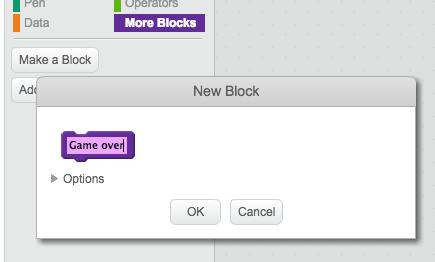
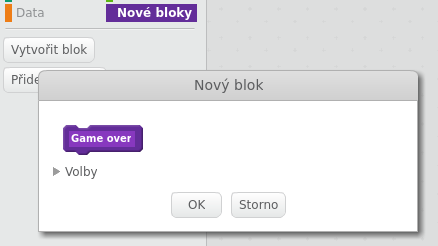
cs: translation contribution to Term 2/Memory

Changed region(s): [[0.0, 0.0, 0.9862, 1.0], [0.1195, 0.4837, 0.3287, 0.7398]]

diff --git a/cs-CZ/Term 2/Memory/Memory.md b/cs-CZ/Term 2/Memory/Memory.md
@@ -12,114 +12,114 @@ Tento projekt vytvořil Erik se svou dcerou Ruth. Budeme rádi, když přispěje
 
 # Úvod { .intro }
 
-V tomto projektu vytvoříš hru, kdy si musíš zapamatovat a zopakovat řadu náhodných barev!
+Tentokrát vytvoříme počítačovou hru! Postava ve scéně bude měnit barvy, úkolem hráče bude zapamatovat si barvy a zopakovat je ve správném pořadí. Kdo vydrží nejdéle, vyhrává!
 
 <div class="scratch-preview">
   <iframe allowtransparency="true" width="485" height="402" src="http://scratch.mit.edu/projects/embed/34874510/?autostart=false" frameborder="0"></iframe>
   <img src="colour-final.png">
 </div>
 
-# Krok 1: Náhodné barvy { .activity }
+# Část 1: Náhodné barvy { .activity }
 
-Vytvořme postavičku, která bude měnit barvy. Tyto si hráč snaží zapamatovat.
+Nejdřív je třeba vytvořit postavu, která bude měnit barvy.
 
 ## Postup { .check }
 
-+ Vytvoř nový projekt ve Scratchi a smaž kočičí sprite tak, aby byl projekt prázndý. Webový scratch editor najdeš na <a href="http://jumpto.cc/scratch-new">jumpto.cc/scratch-new</a>.
++ Vytvoř nový projekt ve Scratchi a smaž kocoura tak, aby byl projekt prázndý. Webový scratch editor najdeš na <a href="http://jumpto.cc/scratch-new">jumpto.cc/scratch-new</a>.
 
-+ Vyber si postavičku a pozadí scény. Postavička nemusí být člověk, ale musí být jednoduché ji přemalovat na jinou barvu (mít kostýmy).
++ Vyber si postavu pozadí scény. Postava nemusí být člověk, ale musí být jednoduché ji přemalovat na jinou barvu (musí mít kostýmy).
 
 	![screenshot](colour-sprite.png)
 
-+ V této hře budeš používat čísla zastupující jednotlivé barvy:
++ V naší hře budeme používat čísla zastupující jednotlivé barvy:
 
 	+ 1 = červená;
 	+ 2 = modrá;
 	+ 3 = zelená;
 	+ 4 = žlutá.
 
-	Dej svojí postavičce 4 různě barevné kostýmy, pro kažou zmíněnou barvu jeden (zkopíruj kostým a/nebo v editoru změň barvu). Zkontroluj, že jsou barvy oblečků ve správném pořadí.
+	Dej svojí postavě 4 různě barevné kostýmy, pro kažou zmíněnou barvu jeden (zkopíruj kostým a/nebo mu v editoru změň barvu). Zkontroluj, že jsou barvy kostýmů ve správném pořadí.
 
 	![screenshot](colour-costume.png)
 
-+ Pro náhodnou sekvenci budeš potřebovat  __seznam__. Seznam je jednoduše proměnná, která si pamatuje více hodnot __v určitém pořadí__. Vytvoř novou proměnnou - seznam, který se bude jmenovat `sekvence` {.blockdata}. Seznam bude potřeba pouze pro postavičku, zaklikni také 'Pouze pro tento sprite'.
++ Pro náhodnou sekvenci budeš potřebovat __seznam__. Seznam je jednoduše proměnná, která si pamatuje více hodnot __v určitém pořadí__. Vytvoř novou proměnnou (Data - Vytvořit seznam), která se bude jmenovat `sekvence` {.blockdata}. Seznam bude potřeba pouze pro postavu, zaklikni tedy volbu 'Jen pro tuto postavu'.
 
 	![screenshot](colour-list.png)
 
-	Teď by měl být vidět prázdný seznam nahoře a k tomu spoustu nových bloků pro použití se seznamem.
+	Teď by měl být vidět prázdný seznam ve scéně vlevo nahoře a k tomu spoustu nových bloků pro použití se seznamem.
 
 	![screenshot](colour-list-blocks.png)
 
-+ Přidej k postavičce následující blok kódu. Tím se k seznamu přidá náhodné číslo (také se přepne obleček), to se opakuje celkem 5 krát, jednou za vteřinu:
++ Přidej k postavě následující blok kódu. Tím se k seznamu přidá náhodné číslo (také se přepne obleček), to se opakuje celkem 5 krát, jednou za vteřinu:
 
 	```blocks
-		when flag clicked
-		delete (all v) of [sequence v]
-		repeat (5)
-			add (pick random (1) to (4)) to [sequence v]
-			switch costume to (item (last v) of [sequence v]
-			wait (1) secs
-		end
+    po kliknutí na ⚑
+    zruš (všechno v) z [sekvence v]
+    opakuj (5) krát
+       přidej (náhodné číslo od (1) do (4)) k [sekvence v]
+       změň kostým na (prvek (poslední v) z [sekvence v])
+       čekej (1) sekund
+    end
 	```
 
 	Všimni si, že jsme seznam na začátku vyprázdnili.
 
 ## Výzva: Přidej zvuk {.challenge}
-Spusť několikrát svůj projekt. Všimni se, že se občas stane, že to samé číslo je vybrané dvakrát (nebo víckrát) za sebou, takže je těžší si to správně zapamatovat. Dokážeš zahrát zvuk bubnu pokaždé, když se postavičce změní kostým?
+Spusť projekt několikrát za sebou. Všimni si, že se občas stane, že to samé číslo je vybrané dvakrát (nebo víckrát) za sebou, takže je těžší si to správně zapamatovat. Dokážeš zahrát zvuk bubnu pokaždé, když se postavě změní kostým?
 
 Dokážeš nechat zahrát různý zvuk bubnu, podle toho, jaké náhodné číslo bylo vybráno? Bude to _velmi_ podobné kódu na změnu kostýmu.
 
 ## Ulož svůj projekt { .save }
 
-# Krok 2: Zopakování sekvence { .activity }
+# Část 2: Zopakování sekvence { .activity }
 
 Přidejme 4 tlačítka, která bude hráč mačkat, aby zopakoval sekvenci, kterou si zapamatoval.
 
 ## Postup { .check }
 
-+ Přidej do projektu 4 sprity bubnů, které budou sloužit, jako tlačítka. Nastav jim naše 4 barvy.
++ Přidej do projektu 4 "postavy" bubnů, které budou sloužit, jako tlačítka. Nastav jim naše 4 barvy.
 
 	![screenshot](colour-drums.png)
 
-+ Když se klikne na červený buben, je třeba vyslat zprávu postavičce, aby věděla, že bylo zmáčknuté čerené tlačítko. Přidej následující kus kódu k červenému bubnu:
++ Když se klikne na červený buben, je třeba vyslat zprávu postavě, aby věděla, že bylo zmáčknuté čerené tlačítko. Přidej následující kus kódu k červenému bubnu:
 
 	```blocks
-		when this sprite clicked
-		broadcast [red v]
+    po kliknutí na mě
+    rozešli všem [červená v]
 	```
 
-+ Když tvá postavička zprávu obdrží, musí zkontrolovat, že je na prvním místě v seznamu číslo 1 (to znamená, že je to červená). Pokud ano, odstraní ze seznamu první prvek, protože hráč uhádl správně. Pokud ne, tak game over!
++ Když tvá postava zprávu obdrží, musí zkontrolovat, že je na prvním místě v seznamu číslo 1 (to znamená, že je to červená). Pokud ano, odstraní ze seznamu první prvek, protože hráč uhádl správně. Pokud ne, tak game over!
 
 	```blocks
-		when I receive [red v]
-		if <(item (1 v) of [sequence v])=[1]> then
-			delete (1 v) of [sequence v]
-		else
-			say [Game over!] for (1) secs
-			stop [all v]
-		end
+    po obdržení zprávy [červená v]
+    když <(prvek (1 v) z [sekvence v]) = [1]> tak
+       zruš (1 v) z [sekvence v]
+    jinak
+       říkej [Game over!] příštích (1) sekund
+       zastav [všechno v]
+    end
 	```
 
-+ Také můžeš přidat efekt zablikáním světel, když je seznam prázdný, to znamená, že všechno bylo uhodnuto správně. Přidej tento blok kódu na konec skriptu `when flag clicked` {.blockevents} u postavičky:
++ Také můžeš přidat efekt zablikáním světel, když je seznam prázdný, to znamená, že všechno bylo uhodnuto správně. Přidej tento blok kódu na konec skriptu `when flag clicked` {.blockevents} u postavy:
 
 	```blocks
-		wait until < (length of [sequence v]) = [0]>
-		broadcast [won v] and wait
+    čekej dokud nenastane <(délka [sekvence v]) = [0]>
+    rozešli všem [výhra v] a čekej
 	```
 
 + Klikni do scény a přidej následující kód, pozadí pak bude měnit barvu, když hráč vyhrál.
 
 	```blocks
-		when I receive [won v]
-		play sound [drum machine v]
-		repeat (50)
-			change [color v] effect by (25)
-			wait (0.1) secs
-		end
-		clear graphic effects
+    po obdržení zprávy [výhra v]
+    přehraj zvuk [drum machine v]
+    opakuj (50) krát
+       změň efekt [barva v] o (25)
+       čekej (0.1) sekund
+    end
+    zruš grafické efekty
 	```
 
-## Výzva: Vytvoř 4 tlačítka {.challenge}
+## Výzva: Vytvoř zbylá tlačítka {.challenge}
 Zopakuj zmíněný postup i pro modré, zelené a žluté tlačítko. Jaký kód zůstane stejný a jaký se musí pro každé tlačítko upravit?
 
 Také můžeš přidat pro každé tlačítko zvuk.
@@ -128,7 +128,7 @@ Nezapomeň pokažé úpravě kód spustit a otestovat! Dokážeš si zapamatovat
 
 ## Ulož svůj projekt { .save }
 
-# Krok 3: Více levelů { .activity .new-page }
+# Část 3: Více levelů { .activity .new-page }
 
 Doteď si hráč musel zapamatovat 5 po sobě jdoucích barev. Pojďme hru vylepšit tak, že se bude zvětšovat počet barev k zapamatování v sekvenci.
 
@@ -138,70 +138,70 @@ Doteď si hráč musel zapamatovat 5 po sobě jdoucích barev. Pojďme hru vylep
 
 	![screenshot](colour-score.png)
 
-+ Toto `score` {.blockdata} bude použité k určení délky sekvence, kterou si hráč musí zapamatovat. Na začátek nastavíme skóre (a tím déklu sekvence) na hodnotu 3. Přidej tento kód na začátek bloku `when flag clicked` {.blockevents} u tvé postavičky:
++ Toto `score` {.blockdata} bude použité k určení délky sekvence, kterou si hráč musí zapamatovat. Na začátek nastavíme skóre (a tím déklu sekvence) na hodnotu 3. Přidej tento kód na začátek bloku `po kliknutí na ⚑` {.blockevents} u tvé postavy:
 
 	```blocks
-		set [score v] to [3]
+    nastav [score v] na [3]
 	```
 
-+ Místo současné neměnné délky 5 teď chceme, aby `score` {.blockdata} určovalo déklu sekvence. Změň smyčku `repeat` {.blockcontrol} u své postavičky (vytváření sekvence) na:
++ Místo současné neměnné délky 5 teď chceme, aby `score` {.blockdata} určovalo déklu sekvence. Změň smyčku `opakuj` {.blockcontrol} u své postavy (vytváření sekvence) na:
 
 	```blocks
-		repeat (score)
-		end
+    opakuj (score) krát
+    end
 	```
 
 + Pokud budou všechny barvy uhodnuty správně, přidáme ke skóre 1, tím prodloužíme sekvenci.
 
 	```blocks
-		change [score v] by (1)
+    změň [score v] o (1)
 	```
 
-+ Nakonec musíš přidat nekonečnou smyčku `forever` {.blockcontrol} kolem kódu pro generování sekvence, tak aby se vytvořila sekvence pro každý level. Takhle by měl vypadat tvůj kód u postavičky:
++ Nakonec musíš přidat nekonečnou smyčku `opakuj dokola` {.blockcontrol} kolem kódu pro generování sekvence, tak aby se vytvořila sekvence pro každý level. Takhle by měl vypadat tvůj kód u postavy:
 
 	```blocks
-		when flag clicked
-		set [score v] to [3]
-		forever
-			delete (all v) of [sequence v]
-			repeat (score)
-				add (pick random (1) to (4)) to [sequence v]
-				switch costume to (item (last v) of [sequence v]
-				wait (1) secs
-			end
-			wait until < (length of [sequence v]) = [0]>
-			broadcast [won v] and wait
-			change [score v] by (1)
-		end
+    po kliknutí na ⚑
+    nastav [score v] na [3]
+    opakuj dokola
+       zruš (všechno v) z [sekvence v]
+       opakuj (score) krát
+          přidej (náhodné číslo od (1) do (4)) k [sekvence v]
+          změň kostým na (prvek (poslední v) z [sekvence v])
+          čekej (1) sekund
+       end
+       čekej dokud nenastane <(délka [sekvence v]) = [0]>
+       rozešli všem [výhra v] a čekej
+       změň [score v] o (1)
+    end
 	```
 
 + Zavolej kamarády, ať přijdou vyzkoušet tvou hru. Nezapomeň schovat okno seznamu `sekvence` {.blockdata} než začnou hrát!
 
 ## Ulož svůj projekt { .save }
 
-# Krok 4: High score { .activity }
+# Část 4: High score { .activity }
 
 Pojďme ukládat skóre, abys mohl soutěžit s kamarády.
 
 ## Postup { .check }
 
-+ Do projektu přidej 2 proměnné, nazveme je `high score` {.blockdata} a `name` {.blockdata}.
++ Do projektu přidej 2 proměnné, nazveme je `high score` {.blockdata} a `jméno` {.blockdata}.
 
 + Pokaždé, když hra skončí (hráč zmáčknul špatné tlačítko), zkontrolujeme, jestli právě nahrané skóre není vyšší, než to, které máme uložené. Pokud ano, uložíme si score jako high score a uložíme si jméno hráče. Tady je, jak by měl vypadat skript u tvého červeného tlačítka:
 
 	```blocks
-		when I receive [red v]
-		if <(item (1 v) of [sequence v])=[1]> then
-			delete (1 v) of [sequence v]
-		else
-			say [Game over!] for (1) secs
-			if < (score) > (high score) > then
-				set [high score v] to (score)
-				ask [High score! What is your name?] and wait
-				set [name v] to (answer)
-			end
-			stop [all v]
-		end
+    po obdržení zprávy [červená v]
+    když <(prvek (1 v) z [sekvence v]) = [1]> tak
+       zruš (1 v) z [sekvence v]
+    jinak
+       říkej [Game over!] příštích (1) sekund
+       když <(score) > (high score)> tak
+          nastav [high score v] na (score)
+          ptej se [High score! Jak se jmenuješ?] a čekej
+          nastav [name v] na (odpověď)
+       end
+       zastav [všechno v]
+    end
 	```
 
 + Tento kód musíš také vložit ke zbývajícím 3 tlačítkům! Všimnul(a) sis, že kód pro 'Game over' je stejný u všech 4 tlačítek?
@@ -210,11 +210,11 @@ Pojďme ukládat skóre, abys mohl soutěžit s kamarády.
 
 + Když se rozhodneš upravit část kódu, jako třeba zvuk nebo nápis 'Game over', budeš to muset udělat 4-krát! To může být otrava a ztráta zpousty času.
 
-	Místo toho si raději zadefinujeme vlastní blok a použijeme _(reuse)_ ho v našem projektu. Klikni na `nové bloky` {.blockmoreblocks} a potom 'Vytvořit blok'. Tento nový blok nazveme 'Game over'.
+	Místo toho si raději zadefinujeme vlastní blok a použijeme ho v našem projektu. Klikni na `Nové bloky` {.blockmoreblocks} a potom 'Vytvořit blok'. Tento nový blok nazveme 'Game over'.
 
 	![screenshot](colour-more.png)
 
-+ Zkopíruj kód z větve `else` {.blockcontrol} z bloku u červeného tlačítka do nového bloku:
++ Zkopíruj kód z větve `jinak` {.blockcontrol} z bloku u červeného tlačítka do nového bloku:
 
 	![screenshot](colour-make-block.png)
 
@@ -236,9 +236,9 @@ Dokážeš udělat další nový blok, který budou tlačítka používat?
 ## Ulož svůj projekt { .save }
 
 ## Výzva: Jiný kostým {.challenge}
-Všimnul(a) sis, že hra začíná s postavičkou ukazující jednu barvu a také, že když hráč zadává sekvenci, zůstává zobrazená poslední barva?
+Všimnul(a) sis, že hra začíná s postavou ukazující jednu barvu a také, že když hráč zadává sekvenci, zůstává zobrazená poslední barva?
 
-Dokážeš přidat postavičce další, čistě bílý kostým, který se ukáže na začátku hry a během toho, co se hráč snaží zadat sekvenci?
+Dokážeš přidat postavě další, čistě bílý kostým, který se ukáže na začátku hry a během toho, co se hráč snaží zadat sekvenci?
 
 ![screenshot](colour-white.png)
 
